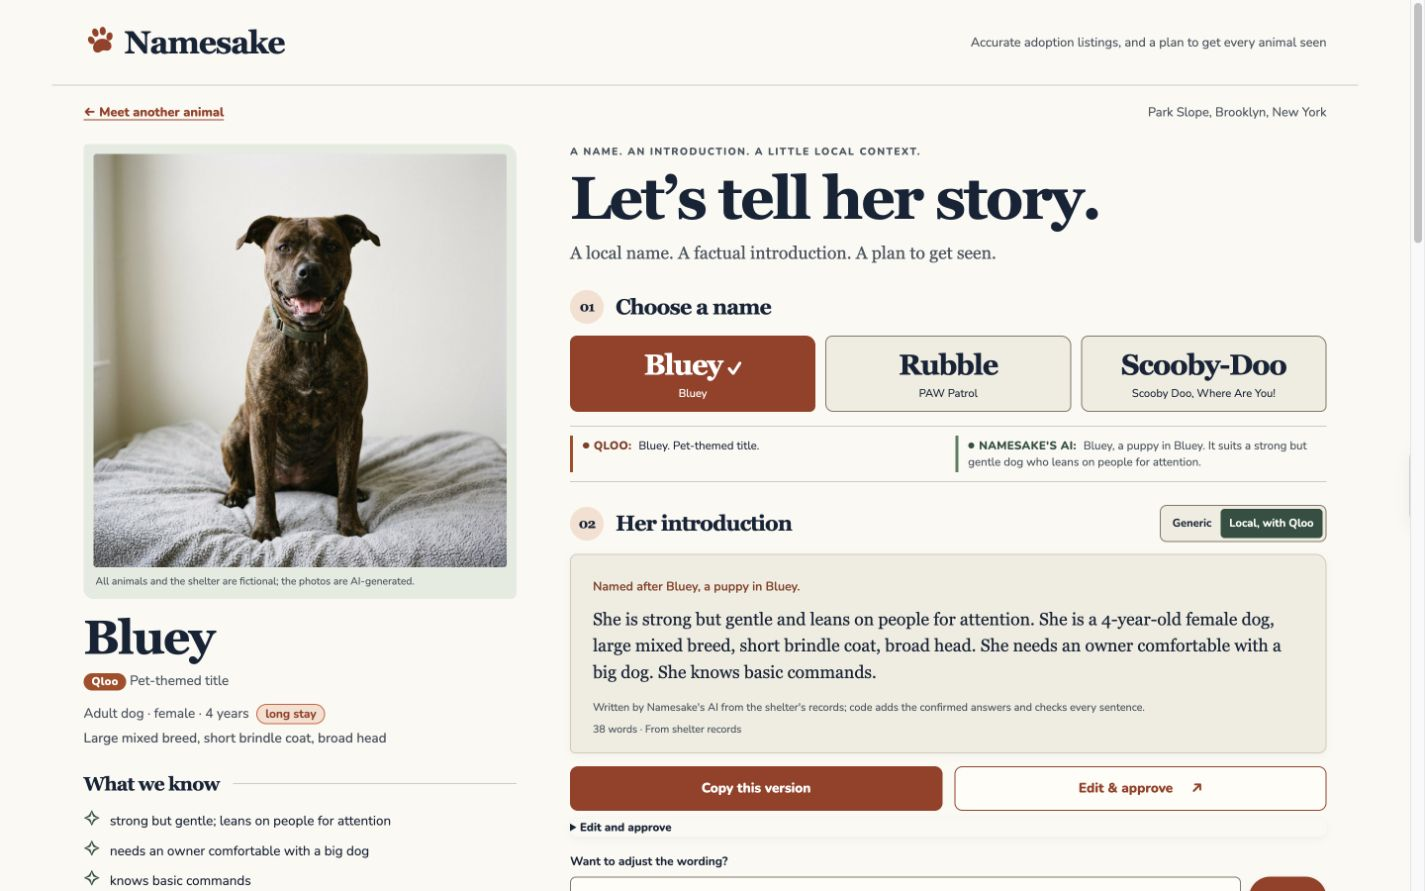
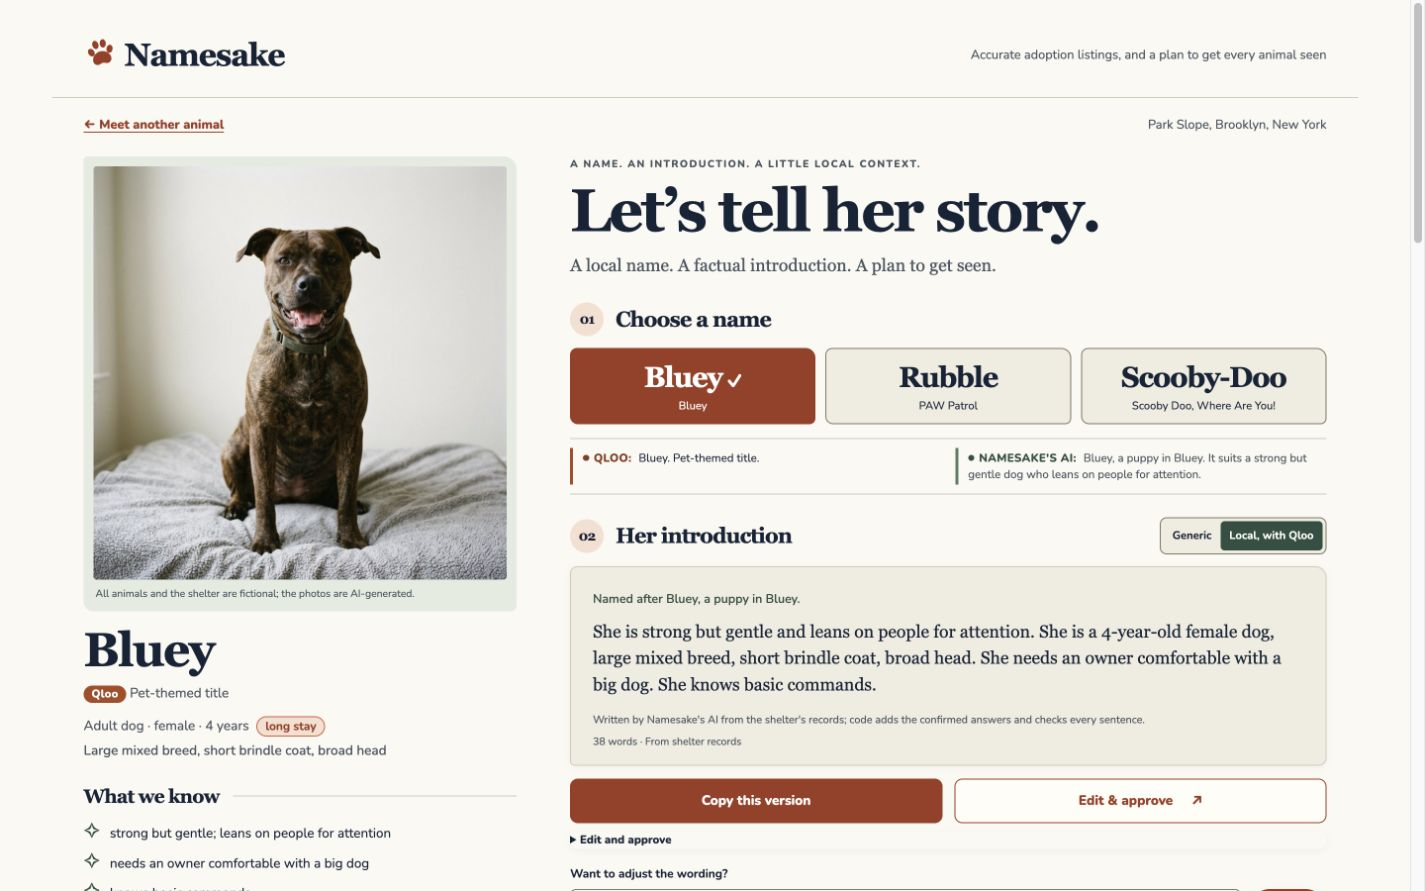
Tighten story provenance and keyboard access after review

diff --git a/app/ui/story/templates/result.html b/app/ui/story/templates/result.html
@@ -9,6 +9,7 @@
 {% block content %}
 <div class="story-topline"><a href="/?location={{ view.location.id }}{{ ui_query }}">← Meet another animal</a><span>{{ view.location.label }}, {{ view.location.region }}</span></div>
 
+<h1 class="sr-only">{{ view.listing.heading }}</h1>
 <form id="listing-form" class="listing-form story-layout" method="post" action="{{ view.approve_url }}" data-role="listing">
   <input type="hidden" name="animal" value="{{ view.animal.id }}">
   <input type="hidden" name="location" value="{{ view.location.id }}">
@@ -19,14 +20,14 @@
     <figure class="portrait"><img src="{{ view.animal.image_url }}" alt="{{ view.animal.alt }}" width="480" height="480"><figcaption>{{ view.credits.photos }}</figcaption></figure>
     {% for version in view.listing.versions %}
     <div class="version version-{{ version.variant }}">
-      <h2 data-role="name" class="{{ 'name' if version.name else 'name name-empty' }}">{{ version.name or view.name.placeholder }}</h2>
+      <p data-role="name" class="{{ 'name' if version.name else 'name name-empty' }}">{{ version.name or view.name.placeholder }}</p>
       {% if version.name_source %}<p class="name-source">{% if version.variant == 'local' %}<span class="from-qloo">Qloo</span> {% endif %}<span class="name-source-text">{{ version.name_source }}</span></p>{% endif %}
       {% if version.note %}<p class="version-note">{{ version.note }}</p>{% endif %}
     </div>
     {% endfor %}
     <p class="animal-meta">{{ view.animal.meta }} {% for badge in view.animal.badges %}<span class="badge">{{ badge }}</span>{% endfor %}</p>
     <p class="animal-look">{{ view.animal.look }}</p>
-    <h3 class="ruled-heading">What we know</h3>
+    <h2 class="ruled-heading">What we know</h2>
     <ul class="fact-row">{% for fact in view.story.facts %}<li><span class="fact-mark" aria-hidden="true">✧</span>{{ fact }}</li>{% endfor %}</ul>
     {% if view.story.still_to_learn %}<p class="still-learning">{{ view.story.still_to_learn }}</p>{% endif %}
     {% if view.litter_note %}<p class="litter-mates">{{ view.litter_note }} {% for mate in view.litter %}{% if mate.name %}{% if mate.current %}<strong>{{ mate.name }}</strong>{% else %}<a href="{{ mate.url }}{{ ui_query }}">{{ mate.name }}</a>{% endif %}{% if not loop.last %}, {% endif %}{% endif %}{% endfor %}</p>{% endif %}
@@ -34,10 +35,10 @@
 
   <section class="story-editor" aria-labelledby="story-heading">
     <p class="eyebrow">A name. An introduction. A little local context.</p>
-    <h1 id="story-heading">{{ view.story.heading }}</h1>
+    <h2 id="story-heading" class="story-headline">{{ view.story.heading }}</h2>
     <p class="story-deck">A local name. A factual introduction. A plan to get seen.</p>
     <section class="name-step local-only">
-      <h2 class="numbered"><span>01</span> Choose a name</h2>
+      <h3 class="numbered"><span>01</span> Choose a name</h3>
       {% if view.name.options %}
       <ul class="name-options" data-role="name-options">
         {% for option in view.name.options %}
@@ -60,7 +61,7 @@
 
     <section class="introduction" aria-labelledby="intro-heading">
       <div class="intro-toolbar">
-        <h2 id="intro-heading" class="numbered"><span>02</span> {{ view.story.introduction_heading }}</h2>
+        <h3 id="intro-heading" class="numbered"><span>02</span> {{ view.story.introduction_heading }}</h3>
         <fieldset class="version-toggle" data-role="version-toggle"><legend>Version</legend>
           {% for version in view.listing.versions %}<label class="version-choice"><input type="radio" name="variant" value="{{ version.variant }}" {% if version.selected %}checked{% endif %}{% if not version.available %} disabled{% endif %}>{{ version.label }}</label>{% endfor %}
         </fieldset>

diff --git a/app/ui/story/static/style.css b/app/ui/story/static/style.css
@@ -930,7 +930,7 @@ main, .site-header, .site-footer { max-width: 1320px; padding-left: 32px; paddin
 .fact-row li { display: flex; gap: 10px; align-items: baseline; }
 .fact-mark { color: var(--secondary-ink); font-size: 1.3rem; line-height: 1; }
 .eyebrow { margin: 0 0 7px; text-transform: uppercase; letter-spacing: .14em; font-size: .64rem; font-weight: 800; color: var(--muted); }
-.story-editor h1 { font-size: clamp(2.5rem, 4.2vw, 3.8rem); line-height: 1.05; margin: 0 0 10px; }
+.story-headline { font-size: clamp(2.5rem, 4.2vw, 3.8rem); line-height: 1.05; margin: 0 0 10px; }
 .story-deck, .section-deck { margin: 0; font-family: Georgia, "Times New Roman", serif; font-size: 1.1rem; color: var(--muted); }
 .numbered { display: flex; gap: 12px; align-items: center; font-size: 1.35rem; margin: 24px 0 12px; }
 .numbered > span, .process-number { display: inline-grid; flex: 0 0 34px; place-items: center; width: 34px; height: 34px; background: var(--primary-soft); border-radius: 50%; font-size: .85rem; color: var(--text); }
@@ -951,7 +951,7 @@ main, .site-header, .site-footer { max-width: 1320px; padding-left: 32px; paddin
 .version-choice { font-size: .7rem; padding: 6px 9px; border-radius: 4px; }
 .version-choice:has(input:checked) { background: var(--secondary-ink); color: var(--on-primary); }
 .story-paper { background: var(--surface-2); padding: 20px 22px 15px; border: 1px solid var(--border); border-radius: 7px 11px 8px 5px; box-shadow: var(--shadow); }
-.story-paper .hook { font-family: var(--font); font-size: .78rem; background: none; padding: 0; font-weight: 600; color: var(--qloo-ink); margin: 0 0 10px; }
+.story-paper .hook { font-family: var(--font); font-size: .78rem; background: none; padding: 0; font-weight: 600; color: var(--ai-ink); margin: 0 0 10px; }
 .story-paper .listing-text { padding: 0; background: none; box-shadow: none; border: 0; font-family: Georgia, "Times New Roman", serif; font-size: 1.1rem; line-height: 1.52; }
 .story-paper .written-by { font-size: .68rem; margin-top: 14px; }
 .story-paper .listing-meta { margin: 5px 0 0; font-size: .66rem; }
@@ -1013,7 +1013,7 @@ main, .site-header, .site-footer { max-width: 1320px; padding-left: 32px; paddin
 .approved .copy { padding: 12px 24px; }
 @media (max-width: 1100px) {
   .story-layout { gap: 30px; grid-template-columns: minmax(0, .8fr) minmax(0, 1.2fr); }
-  .story-editor h1 { font-size: 2.8rem; }
+  .story-headline { font-size: 2.8rem; }
   .intro-toolbar { align-items: start; }
 }
 @media (max-width: 760px) {
@@ -1025,7 +1025,7 @@ main, .site-header, .site-footer { max-width: 1320px; padding-left: 32px; paddin
   .story-layout { grid-template-columns: 1fr; gap: 28px; }
   .story-animal { max-width: 520px; width: 100%; margin: auto; }
   .story-animal .name { font-size: 2.6rem; }
-  .story-editor h1 { font-size: 2.7rem; }
+  .story-headline { font-size: 2.7rem; }
   .story-deck { font-size: 1rem; }
   .name-option strong { font-size: 1.3rem; }
   .name-option label { padding: 13px 6px; }
@@ -1067,3 +1067,5 @@ main, .site-header, .site-footer { max-width: 1320px; padding-left: 32px; paddin
 @media (max-width: 760px) { .why-choice { grid-template-columns: 1fr; gap: 15px; } }
 
 .leaflet-control-attribution { color: var(--muted); }
+
+.sr-only { position: absolute; width: 1px; height: 1px; padding: 0; margin: -1px; overflow: hidden; clip-path: inset(50%); white-space: nowrap; border: 0; }

diff --git a/app/ui/story/templates/base.html b/app/ui/story/templates/base.html
@@ -14,7 +14,7 @@
     <a class="brand" href="/{% if ui_query %}?{{ ui_query[1:] }}{% endif %}">{% include "_paw.html" %}<span>Namesake</span></a>
     <span class="tagline">Accurate adoption listings, and a plan to get every animal seen</span>
   </header>
-  <main id="main-content">
+  <main id="main-content" tabindex="-1">
     {% block content %}{% endblock %}
   </main>
   <footer class="site-footer">

diff --git a/app/views/build.py b/app/views/build.py
@@ -748,6 +748,19 @@ def lookalike_why(
     return returned, reading
 
 
+def story_name_evidence(
+    option: NameOptionView, entities: dict[str, Entity], returned: list[WhyItem]
+) -> str:
+    """Qloo's title and description only; source badges are the app's interpretation."""
+    entity = entities.get(option.entity_id)
+    if entity is None:
+        return "No Qloo title evidence is available for this option."
+    kind = entity.type.removeprefix("urn:entity:").replace("_", " ")
+    detail = next((item.detail for item in returned if item.entity_id == entity.id), "")
+    detail = detail or sentences(entity.description) or "No description was returned."
+    return f"{entity.name} ({kind}). {detail}"
+
+
 def build_result_view(
     animal: Animal,
     location: Location,
@@ -767,6 +780,9 @@ def build_result_view(
     named = [m for m in litter or [] if m.name]
     listing_ = listing_view(animal, listing, profile, generic, refined)
     names = name_view(listing, profile, listing_.text)
+    entities = {e.id: e for e in profile.pet_entities + profile.local_tastes}
+    if listing:
+        entities.update({look.entity.id: look.entity for look in listing.lookalikes})
     possessive = {"female": "her", "male": "his"}.get(animal.sex, "their")
     unknown = [
         CHECK_LABELS[field]
@@ -790,11 +806,7 @@ def build_result_view(
             names=[
                 StoryNameView(
                     name=option.name,
-                    returned=f"{option.title}. {option.badge}. "
-                    + next(
-                        (item.detail for item in returned if item.entity_id == option.entity_id),
-                        "",
-                    ),
+                    returned=story_name_evidence(option, entities, returned),
                     selected=" ".join(
                         [
                             f"{option.reference}. {option.why}",

diff --git a/tests/test_ui_contract.py b/tests/test_ui_contract.py
@@ -246,3 +246,35 @@ def test_approval_screen_meets_the_contract(client, ui):
     if ui == "story":
         # The POST has no query string; navigation still stays in the opt-in skin.
         assert 'href="/?ui=story"' in response.text
+
+
+def test_story_name_controls_have_their_own_provenance_pair(client):
+    from html.parser import HTMLParser
+
+    from tests.test_product import save, saved_listing
+
+    class NameControls(HTMLParser):
+        def __init__(self):
+            super().__init__()
+            self.options = {}
+            self.details = {}
+
+        def handle_starttag(self, tag, attrs):
+            attrs = dict(attrs)
+            if tag == "input" and attrs.get("name") == "local_name":
+                self.options[attrs["value"]] = "checked" in attrs
+            if "data-name-detail" in attrs:
+                self.details.setdefault(attrs["data-name-detail"], []).append("hidden" in attrs)
+
+    save(saved_listing())
+    html = client.get(
+        "/result", params={"animal": "dog-02", "location": "park-slope", "ui": "story"}
+    ).text
+    controls = NameControls()
+    controls.feed(html)
+    assert controls.options and set(controls.options) == set(controls.details)
+    for name, checked in controls.options.items():
+        # One near the choice, one in Behind this story; both follow the same option.
+        assert controls.details[name] == [not checked, not checked]
+    assert '<main id="main-content" tabindex="-1">' in html
+    assert html.index("<h1") < html.index('class="story-animal"')

diff --git a/tests/test_views.py b/tests/test_views.py
@@ -251,7 +251,9 @@ def test_story_name_summary_keeps_qloo_and_interpretation_apart(roster):
         assert option.reference in choice.selected and option.why in choice.selected
         assert option.why not in choice.returned
     assert "Qloo has 2 entries" in view.story.names[0].returned
-    assert view.story.names[1].returned.strip() == "Example Cat Show. Pet-themed title."
+    assert (
+        view.story.names[1].returned == "Example Cat Show (tv show). No description was returned."
+    )
 
 
 def test_story_keeps_same_named_titles_evidence_with_their_own_entity(roster):
@@ -270,3 +272,18 @@ def test_story_keeps_same_named_titles_evidence_with_their_own_entity(roster):
     assert "second invented title" in second.returned
     assert "first interpretation" not in second.selected
     assert "second interpretation" in second.selected
+
+
+def test_story_local_taste_names_show_the_actual_qloo_title(roster):
+    from tests.test_product import saved_listing
+
+    p = profile()
+    result = saved_listing()
+    title = p.pet_entities.pop(0)
+    title.description = "An invented local show."
+    p.local_tastes.append(title)
+    result.draft.names[0].source = "local"
+    view = build_result_view(roster.get("dog-02"), LOCATION, p, result)
+    evidence = view.story.names[0].returned
+    assert title.name in evidence and title.description in evidence
+    assert "Watched locally" not in evidence and "Pet-themed" not in evidence

diff --git a/tests/test_locations.py b/tests/test_locations.py
@@ -5,7 +5,7 @@ from fastapi.testclient import TestClient
 
 from app.config import get_settings
 from app.locations import load_locations
-from app.main import app
+from app.main import UIS, app
 
 client = TestClient(app)
 
@@ -45,7 +45,7 @@ def test_map_gets_every_preset_point():
 
 
 def test_map_scripts_are_served_and_credit_openstreetmap():
-    for ui in ["classic", "warm"]:
+    for ui in UIS:
         for name in ["location-map.js", "result-map.js"]:
             js = client.get(f"/ui/{ui}/static/{name}")
             assert js.status_code == 200
@@ -87,5 +87,5 @@ def test_with_no_area_chosen_the_bar_asks_for_one():
 
 def test_the_shelter_bar_script_is_served():
     # Flash: without it, a closed panel with no area chosen strands the visitor again.
-    for ui in ["classic", "warm"]:
+    for ui in UIS:
         assert client.get(f"/ui/{ui}/static/shelter-bar.js").status_code == 200

diff --git a/docs/decisions.md b/docs/decisions.md
@@ -308,7 +308,7 @@ The refusal keeps the edit and names the missing words.
 - Add `app/ui/story/`, starting from warm and keeping the same routes, forms, scripts and `data-role` contract. Warm stays the default; `?ui=story` selects the new skin on every screen.
 - The [structure mockup](img/story-structure.png) supplies the order: photo and recorded facts beside name choices and the introduction; then the process and two-column provenance; then the map, ranked venues and exposure checklist.
 - The [look mockup](img/story-look.png) supplies large serif headings, numbered steps, prominent name choices with source titles, the recorded-fact row and the honey outreach band. Georgia is a system serif; the skin ships Nunito and its licence for body text. Decoration is CSS only; the app’s own animal photos are unchanged.
-- Leave out share-card previews, sharing or posting controls, venue photos and illustrative map pins: the app has none of those. Facts and unknown checks come from additive `ResultView.story` fields; the UI derives no animal traits or Qloo evidence. Each selected name’s source explanation uses the existing Why evidence, apart from Namesake’s interpretation; all original evidence remains in the expandable panel.
+- Leave out share-card previews, sharing or posting controls, venue photos and illustrative map pins: the app has none of those. Facts and unknown checks come from additive `ResultView.story` fields; the UI derives no animal traits or Qloo evidence. Each selected name’s source explanation uses its Qloo title and description and existing Why evidence, apart from Namesake’s interpretation; all original evidence remains in the expandable panel.
 - Maps use CARTO Voyager in light mode and Dark Matter in dark mode, with both OpenStreetMap and CARTO attribution. No other external host is added. Keyboard focus, reduced motion and the mobile layout are preserved.
 
 **Why:** the name, its source, the animal photo and the listing need to read together at 1440×900. The second skin changed the palette; this alternative changes the visual hierarchy while preserving all existing content and behaviour. The local layer remains an experiment, and colour, labels and rules keep Qloo’s answers apart from Namesake’s reading.

diff --git a/docs/architecture.md b/docs/architecture.md
@@ -260,4 +260,4 @@ flowchart LR
 
 ## The story skin
 
-`app/ui/story/` renders the same view models and posts to the same routes as warm and classic. Additive `ResultView.story` presentation fields supply pronoun-aware headings, the exact recorded observations, unknown checks, process labels and a selected name’s source explanation built from the existing Why fields. They contain no HTML and are available through the JSON result API. Name options and title-specific Why items carry an additive entity ID, so identically named works keep their own evidence. Name changes select existing display values in the browser; they make no data calls. The story maps use CARTO Voyager or Dark Matter according to the colour scheme, with OpenStreetMap and CARTO attribution. The default remains warm; `?ui=story` is opt-in (decision 22).
+`app/ui/story/` renders the same view models and posts to the same routes as warm and classic. Additive `ResultView.story` presentation fields supply pronoun-aware headings, the exact recorded observations, unknown checks, process labels and a selected name’s source explanation built from its Qloo title and description and existing Why fields. They contain no HTML and are available through the JSON result API. Name options and title-specific Why items carry an additive entity ID, so identically named works keep their own evidence. Name changes select existing display values in the browser; they make no data calls. The story maps use CARTO Voyager or Dark Matter according to the colour scheme, with OpenStreetMap and CARTO attribution. The default remains warm; `?ui=story` is opt-in (decision 22).

diff --git a/README.md b/README.md
@@ -149,7 +149,7 @@ Qloo's terms forbid publishing its response data, so real responses live only in
 
 Taste data from the Qloo API. This project is not affiliated with or endorsed by Qloo.
 
-The animals and the shelter are fictional, and the photos are AI-generated. Map tiles and place names © OpenStreetMap contributors; place lookups by Photon (komoot). Pet-themed titles are sorted with [TypeSafe](https://typesafe.ai)'s Jev classifier, which receives only a title's name, kind and Qloo's description; Namesake is not affiliated with TypeSafe. The typeface is Nunito, served from the app itself under the SIL Open Font License (`app/ui/warm/static/fonts/OFL.txt`).
+The animals and the shelter are fictional, and the photos are AI-generated. Map tiles and place names © OpenStreetMap contributors; the story skin’s basemaps © CARTO; place lookups by Photon (komoot). Pet-themed titles are sorted with [TypeSafe](https://typesafe.ai)'s Jev classifier, which receives only a title's name, kind and Qloo's description; Namesake is not affiliated with TypeSafe. Warm and story serve Nunito locally under the SIL Open Font License (`app/ui/warm/static/fonts/OFL.txt` and `app/ui/story/static/fonts/OFL.txt`); story uses the system serif Georgia for headings.
 
 ## Licence
 

diff --git a/AGENTS.md b/AGENTS.md
@@ -116,7 +116,7 @@ These flags cannot be combined with a custom prompt, which is why the guidelines
 | --- | --- |
 | Language and tooling | Python 3.12, uv, ruff, pytest |
 | Web | FastAPI, Jinja templates, HTMX, server-sent events for the agent's live log |
-| Map | Leaflet with OpenStreetMap tiles (keep the attribution) |
+| Map | Leaflet: OpenStreetMap tiles in warm/classic, CARTO in story (keep each attribution) |
 | Agent | PydanticAI 2.x with structured output |
 | Qloo, agent-chosen calls | PydanticAI function tools over `QlooClient` (`qloo exec`), so every call is cached and spaced; see `docs/decisions.md` #5 |
 | Qloo, fixed calls | `QlooClient` (`qloo exec` as a subprocess returning JSON) |
